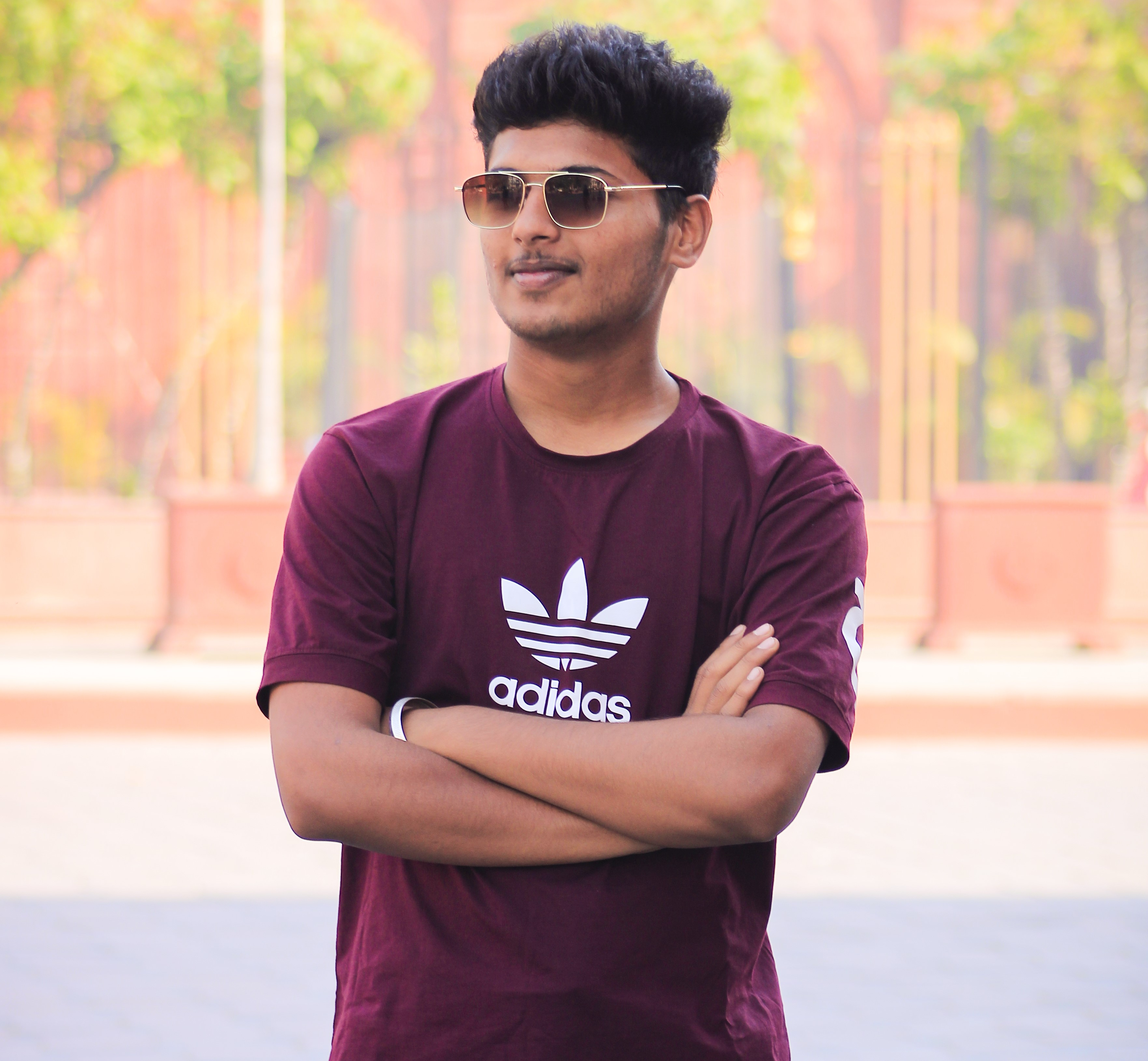
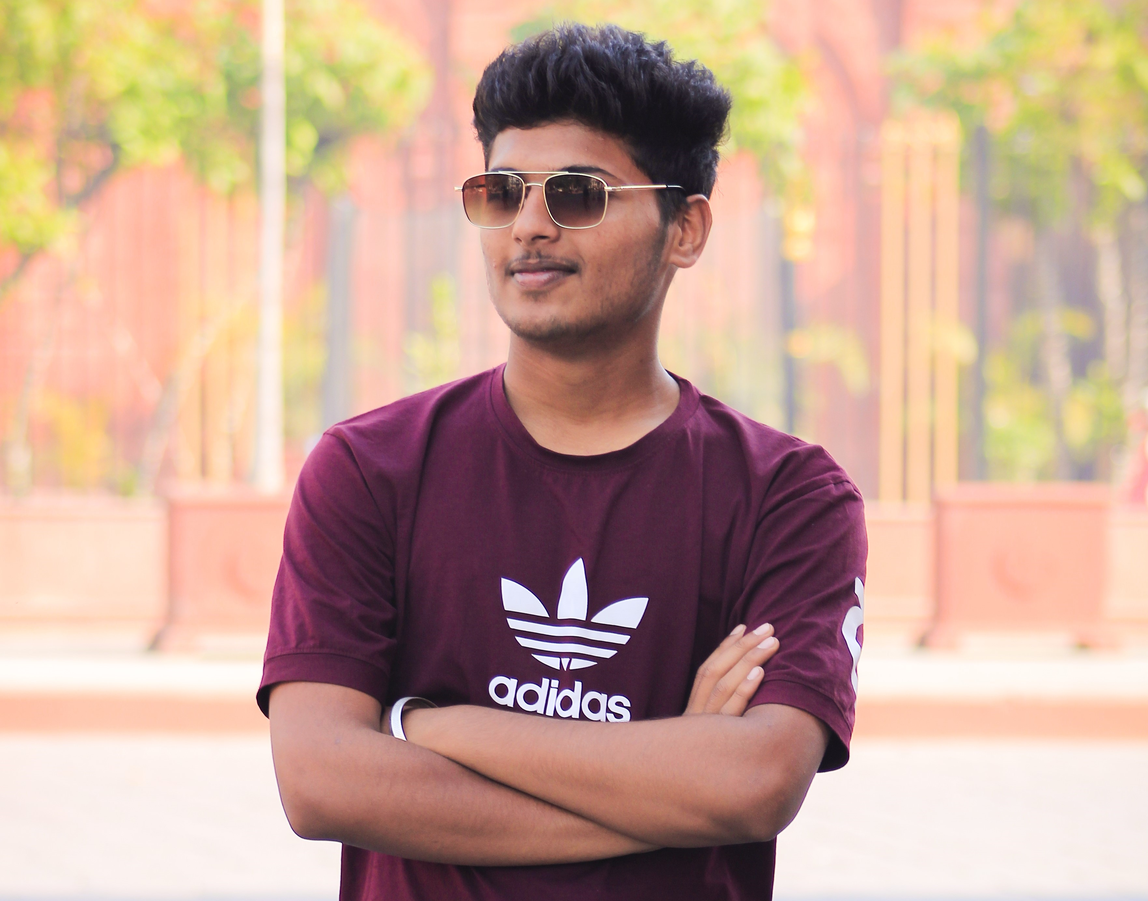
UI update

diff --git a/src/Components/OurTeam.css b/src/Components/OurTeam.css
@@ -9,6 +9,11 @@
     box-sizing: border-box;
 }
 
+.ourTeamContainer h1 {
+    letter-spacing: 3px;
+    font-size: 70px;
+}
+
 .ourTeamParaContainer {
     width: 70vw;
     height: 30vh;
@@ -18,7 +23,8 @@
 }
 
 .ourTeamHeroImgContainer {
-    width: 400px;
+    margin-top: 30px;
+    width: 350px;
     height: 600px;
     overflow: hidden;
     border-radius: 25px;
